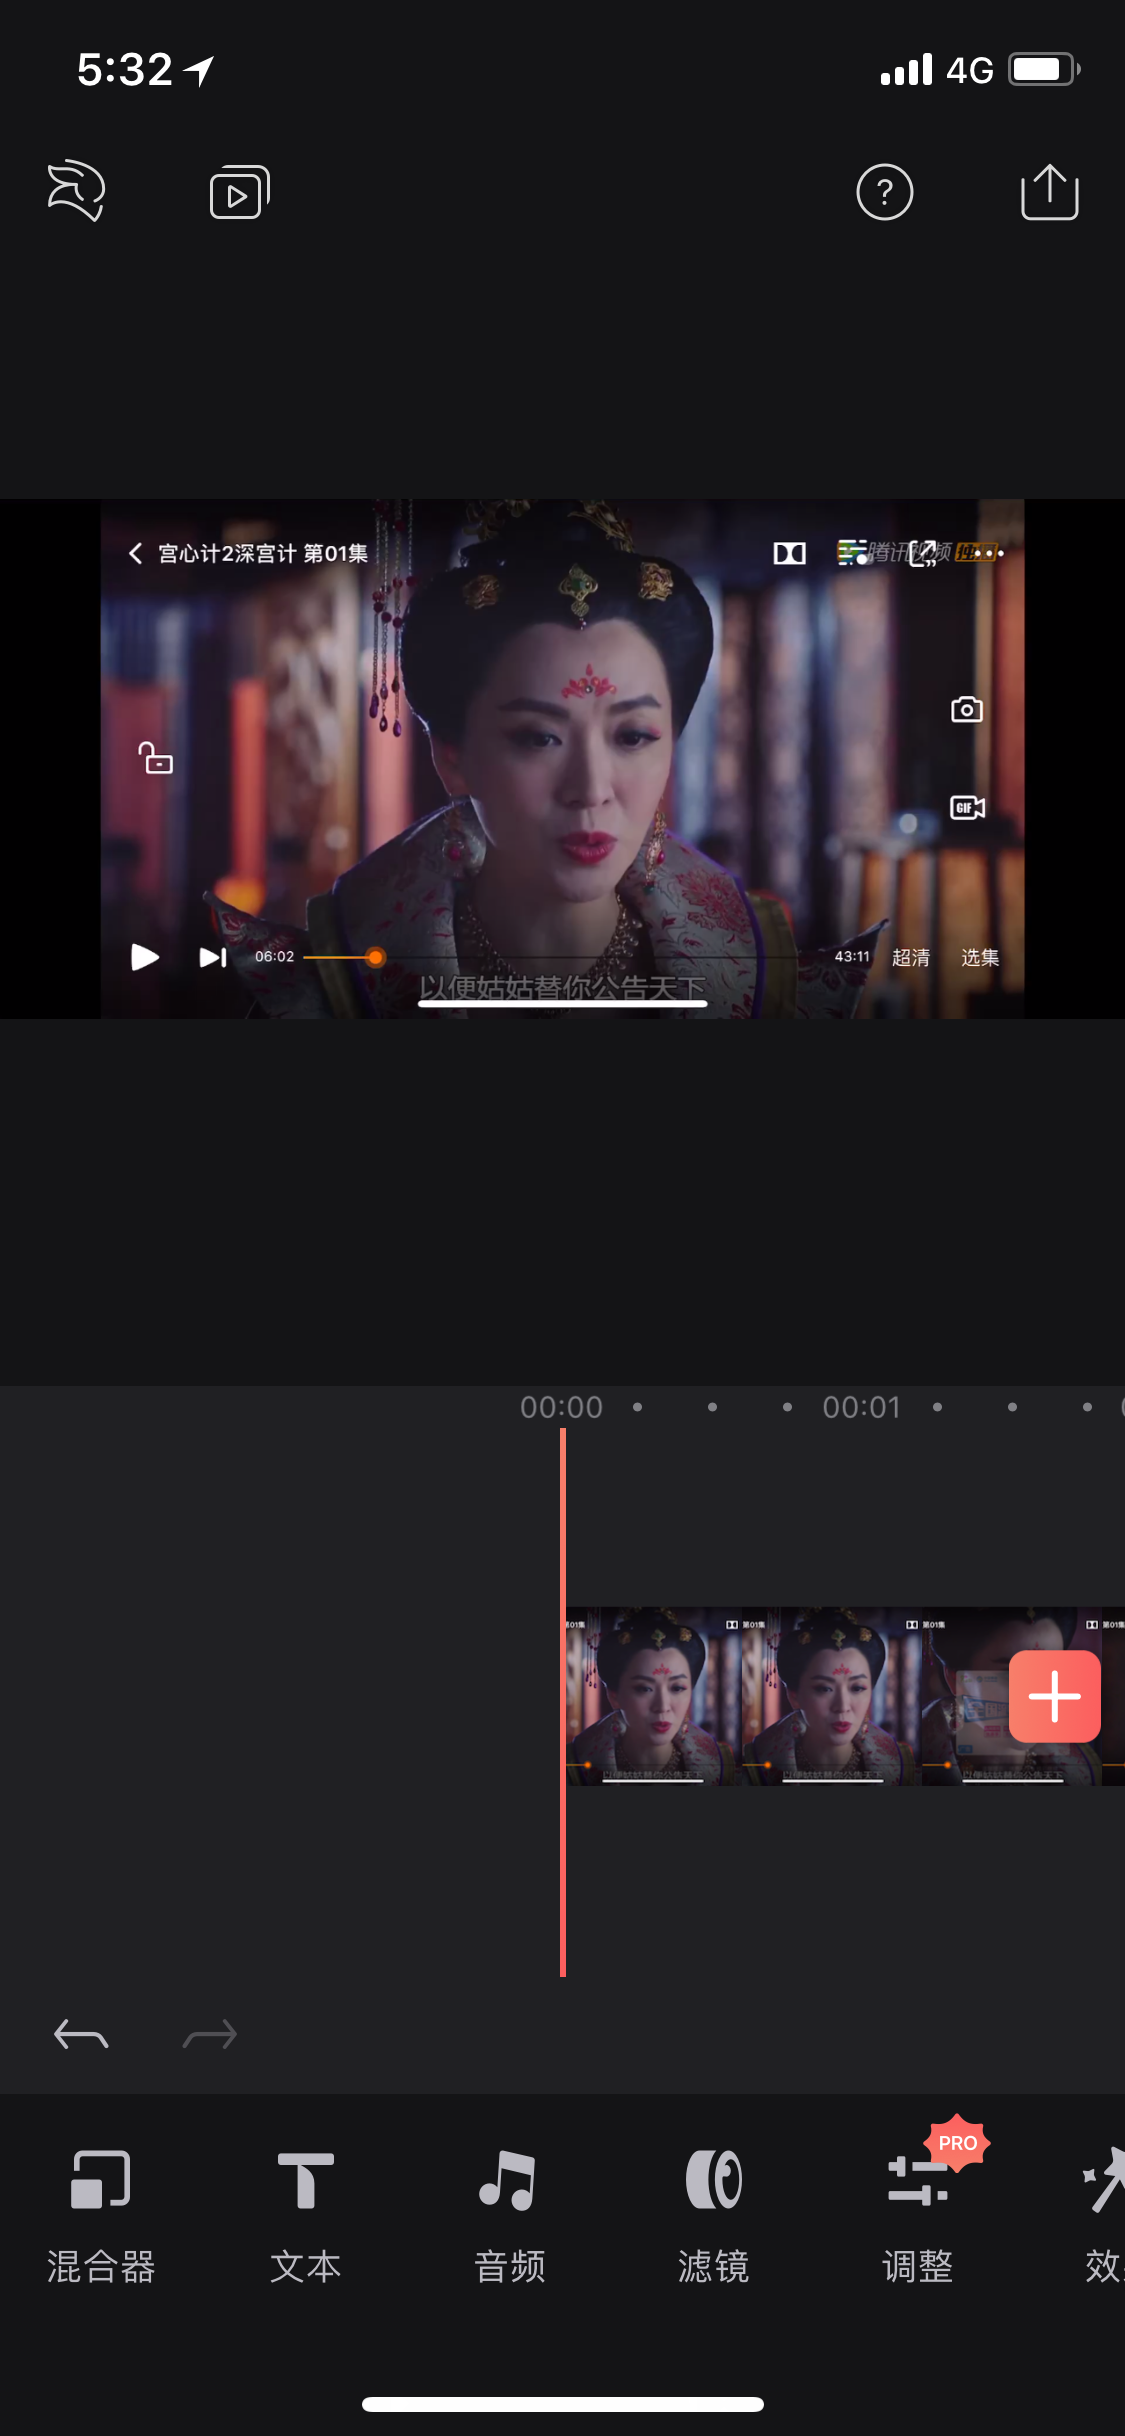
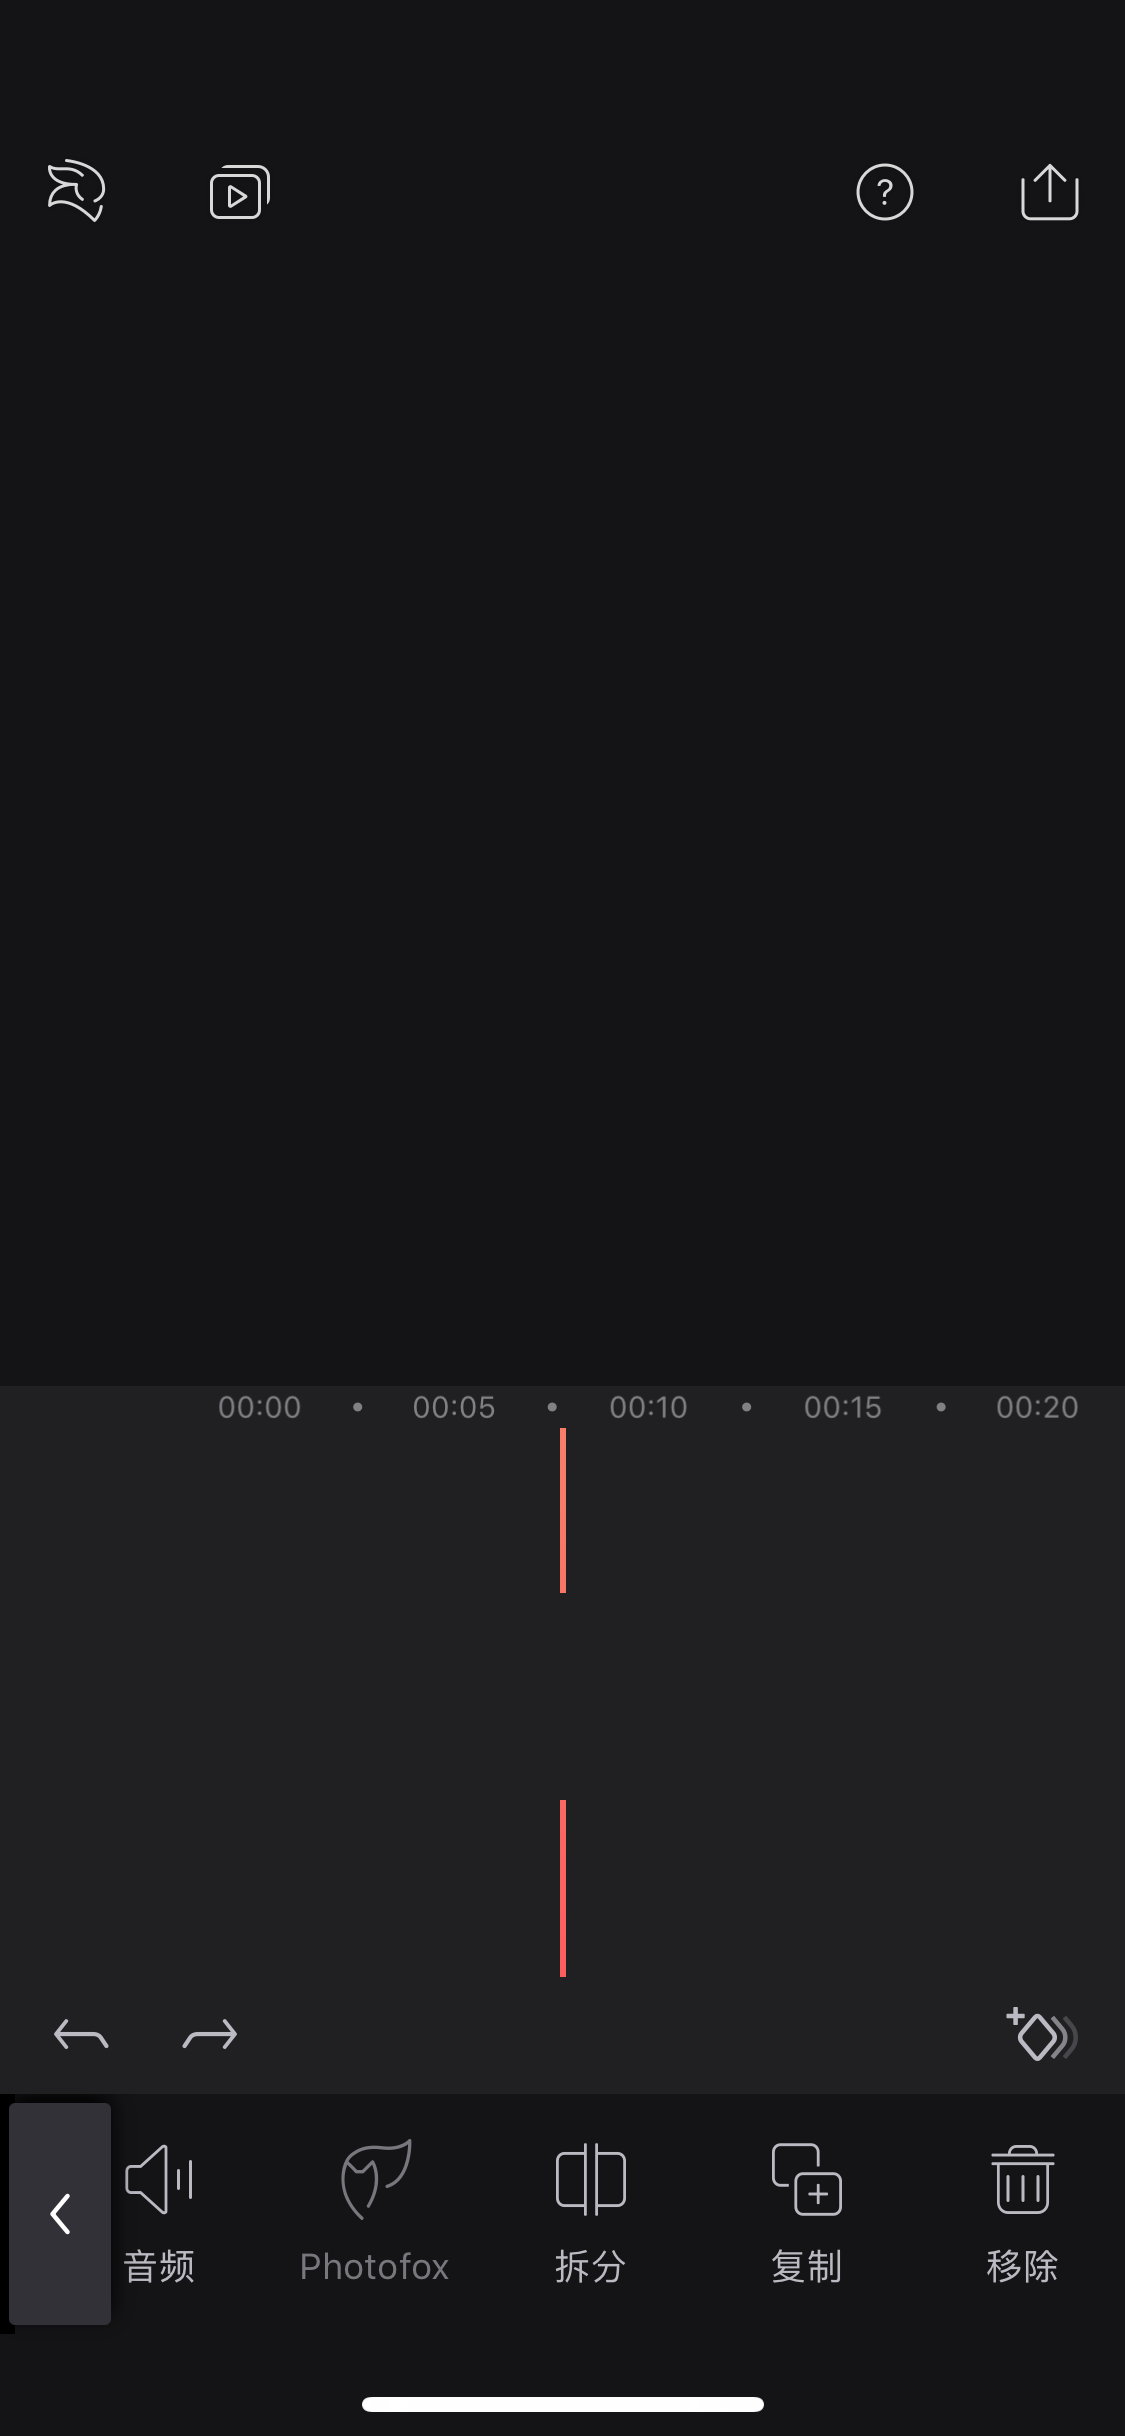
add split copy remove button

diff --git a/AVFoundationSimplePlayer-iOS/PlayerViewController.swift b/AVFoundationSimplePlayer-iOS/PlayerViewController.swift
@@ -105,6 +105,10 @@ class PlayerViewController: UIViewController {
     @IBOutlet weak var timeline: TimelineView!
     @IBOutlet weak var compositionDebugView: APLCompositionDebugView!
     
+    @IBOutlet weak var splitButton: UIButton!
+    @IBOutlet weak var copyButton: UIButton!
+    @IBOutlet weak var removeButton: UIButton!
+    
     // MARK: - View Controller
     
     override func viewWillAppear(_ animated: Bool) {
@@ -300,6 +304,13 @@ class PlayerViewController: UIViewController {
     }
     
     // MARK: - IBActions
+    
+    @IBAction func splitClip(_ sender: Any) {
+    }
+    @IBAction func copyClip(_ sender: Any) {
+    }
+    @IBAction func removeClip(_ sender: Any) {
+    }
     
     @IBAction func playPauseButtonWasPressed(_ sender: UIButton) {
         if player.rate != 1.0 {
